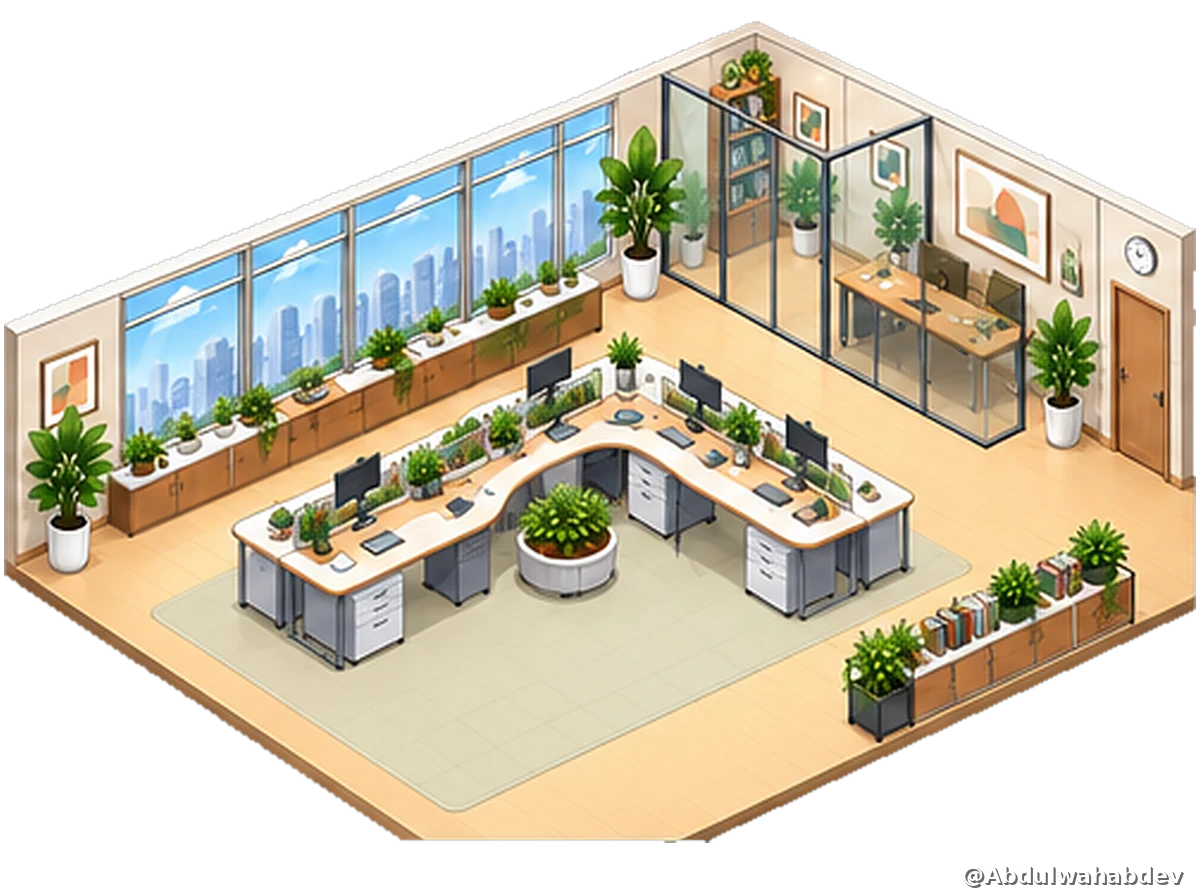
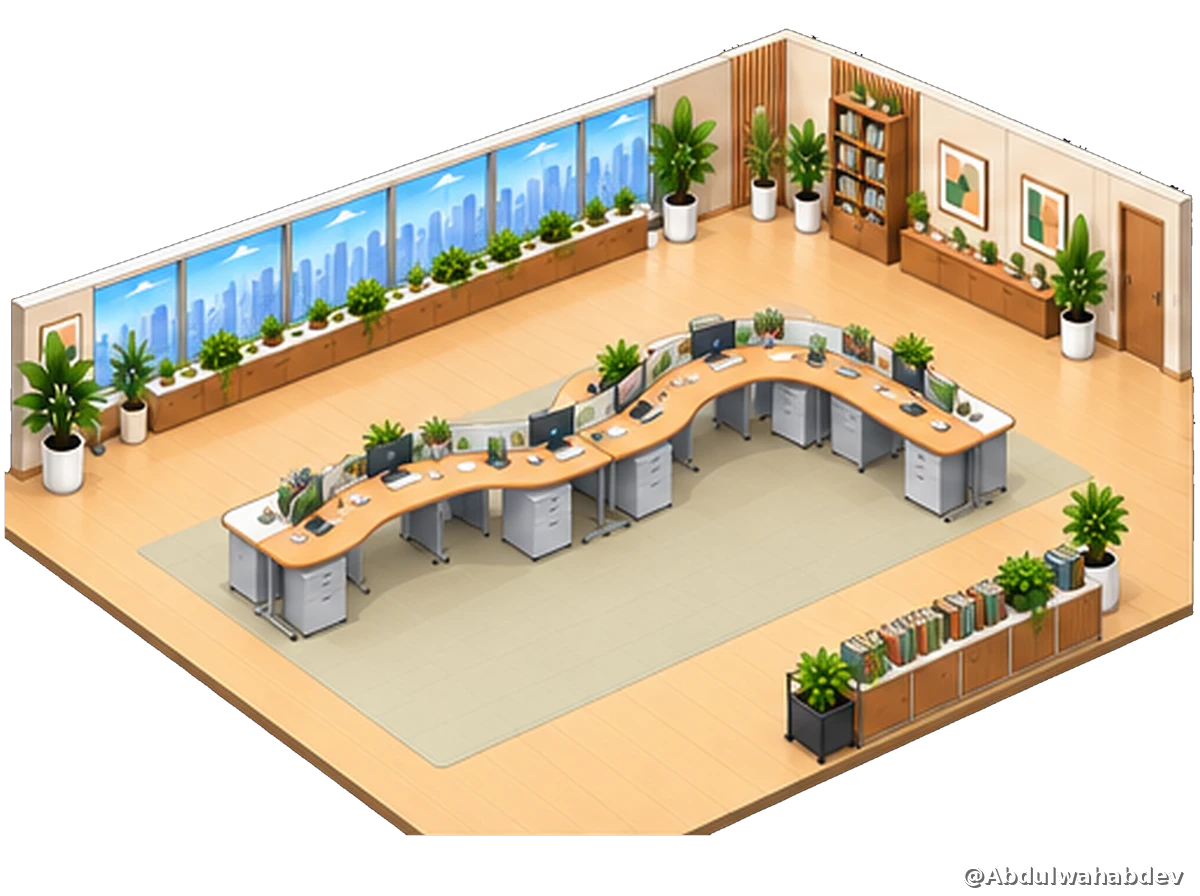
Big single rooms: owner's 9 new room pictures with new standing spots and walk areas
Claude-Session: https://claude.ai/code/session_014dg1NbrcZWs9XemZW5JHMS

diff --git a/office/office.html b/office/office.html
@@ -721,13 +721,13 @@ const ROOM_BG = {boss:"boss", main:"main-open", meet:"meet-10", huddle:"huddle",
 /* main office (the owner's rule): S-shaped benches, and the manager's glass office in the corner */
 const S_MAIN = [{"x": 30, "y": 48, "f": "front-left", "seat": true}, {"x": 38, "y": 44, "f": "front-left", "seat": true}, {"x": 47, "y": 39, "f": "front-left", "seat": true}, {"x": 57, "y": 45, "f": "front-left", "seat": true}, {"x": 64, "y": 52, "f": "front-left", "seat": true}, {"x": 21, "y": 67, "f": "front-left", "seat": true}, {"x": 31, "y": 70, "f": "front-left", "seat": true}, {"x": 72, "y": 52, "f": "front-left", "seat": true}, {"x": 50, "y": 62, "f": "front-left"}, {"x": 52, "y": 72, "f": "front-left"}, {"x": 42, "y": 78, "f": "front-left"}, {"x": 70, "y": 57, "f": "front-left"}, {"x": 88, "y": 54, "f": "front-left"}, {"x": 12, "y": 62, "f": "front-left"}, {"x": 25, "y": 76, "f": "front-left"}, {"x": 62, "y": 66, "f": "front-left"}, {"x": 54, "y": 38, "f": "front-left"}];
 const MGR_SEAT = 7;
-const S_BOSS_OWNER = {"x": 47, "y": 43, "f": "front-left"}, S_BOSS_ASSIST = {"x": 27, "y": 63, "f": "front-left"};
-const S_BOSS_VISIT = [{"x": 40, "y": 74, "f": "front-left"}, {"x": 54, "y": 72, "f": "front-left"}, {"x": 62, "y": 64, "f": "front-left"}, {"x": 32, "y": 80, "f": "front-left"}, {"x": 46, "y": 84, "f": "front-left"}, {"x": 70, "y": 60, "f": "front-left"}];
-const S_GAME = [{"x": 18, "y": 47, "f": "front-left", "seat": true}, {"x": 30, "y": 58, "f": "front-left", "seat": true}, {"x": 54, "y": 42, "f": "front-left", "seat": true}, {"x": 47, "y": 36, "f": "front-left", "seat": true}, {"x": 57, "y": 36, "f": "front-left", "seat": true}, {"x": 32, "y": 70, "f": "front-left"}, {"x": 56, "y": 68, "f": "front-left"}, {"x": 50, "y": 56, "f": "front-left"}, {"x": 83, "y": 53, "f": "front-left"}, {"x": 70, "y": 70, "f": "front-left"}, {"x": 85, "y": 62, "f": "front-left"}, {"x": 62, "y": 80, "f": "front-left"}, {"x": 40, "y": 82, "f": "front-left"}, {"x": 14, "y": 56, "f": "front-left"}, {"x": 66, "y": 40, "f": "front-left"}, {"x": 75, "y": 44, "f": "front-left"}, {"x": 48, "y": 86, "f": "front-left"}];
-const MEET_SETS = {"meet-10": {"seats": [{"x": 22, "y": 64, "f": "front-left", "seat": true}, {"x": 28, "y": 52, "f": "front-left", "seat": true}, {"x": 36, "y": 47, "f": "front-left", "seat": true}, {"x": 44, "y": 42, "f": "front-left", "seat": true}, {"x": 51, "y": 37, "f": "front-left", "seat": true}, {"x": 42, "y": 72, "f": "front-left", "seat": true}, {"x": 50, "y": 67, "f": "front-left", "seat": true}, {"x": 58, "y": 62, "f": "front-left", "seat": true}, {"x": 66, "y": 57, "f": "front-left", "seat": true}, {"x": 72, "y": 46, "f": "front-left", "seat": true}], "stand": [{"x": 14, "y": 66, "f": "front-left"}, {"x": 88, "y": 62, "f": "front-left"}, {"x": 30, "y": 82, "f": "front-left"}, {"x": 70, "y": 76, "f": "front-left"}, {"x": 50, "y": 86, "f": "front-left"}, {"x": 85, "y": 70, "f": "front-left"}]}, "meet-20": {"seats": [{"x": 22, "y": 49, "f": "front-left", "seat": true}, {"x": 29, "y": 46, "f": "front-left", "seat": true}, {"x": 36, "y": 43, "f": "front-left", "seat": true}, {"x": 43, "y": 40, "f": "front-left", "seat": true}, {"x": 50, "y": 37, "f": "front-left", "seat": true}, {"x": 60, "y": 38, "f": "front-left", "seat": true}, {"x": 66, "y": 41, "f": "front-left", "seat": true}, {"x": 72, "y": 44, "f": "front-left", "seat": true}, {"x": 79, "y": 48, "f": "front-left", "seat": true}, {"x": 18, "y": 62, "f": "front-left", "seat": true}, {"x": 24, "y": 68, "f": "front-left", "seat": true}, {"x": 30, "y": 73, "f": "front-left", "seat": true}, {"x": 36, "y": 78, "f": "front-left", "seat": true}, {"x": 42, "y": 83, "f": "front-left", "seat": true}, {"x": 50, "y": 79, "f": "front-left", "seat": true}, {"x": 57, "y": 74, "f": "front-left", "seat": true}, {"x": 64, "y": 69, "f": "front-left", "seat": true}, {"x": 71, "y": 64, "f": "front-left", "seat": true}, {"x": 78, "y": 59, "f": "front-left", "seat": true}], "stand": [{"x": 10, "y": 64, "f": "front-left"}, {"x": 90, "y": 60, "f": "front-left"}, {"x": 56, "y": 88, "f": "front-left"}, {"x": 88, "y": 66, "f": "front-left"}, {"x": 12, "y": 70, "f": "front-left"}]}, "meet-30": {"seats": [{"x": 22.0, "y": 59.0, "f": "front-left", "seat": true}, {"x": 26.0, "y": 60.9, "f": "front-left", "seat": true}, {"x": 30.0, "y": 62.9, "f": "front-left", "seat": true}, {"x": 34.0, "y": 64.9, "f": "front-left", "seat": true}, {"x": 38.0, "y": 66.8, "f": "front-left", "seat": true}, {"x": 42.0, "y": 68.8, "f": "front-left", "seat": true}, {"x": 46.0, "y": 70.7, "f": "front-left", "seat": true}, {"x": 50.0, "y": 72.7, "f": "front-left", "seat": true}, {"x": 54.0, "y": 74.7, "f": "front-left", "seat": true}, {"x": 58.0, "y": 76.6, "f": "front-left", "seat": true}, {"x": 34.0, "y": 50.7, "f": "front-left", "seat": true}, {"x": 37.0, "y": 52.1, "f": "front-left", "seat": true}, {"x": 40.0, "y": 53.6, "f": "front-left", "seat": true}, {"x": 43.0, "y": 55.1, "f": "front-left", "seat": true}, {"x": 46.0, "y": 56.5, "f": "front-left", "seat": true}, {"x": 49.0, "y": 58.0, "f": "front-left", "seat": true}, {"x": 52.0, "y": 59.5, "f": "front-left", "seat": true}, {"x": 55.0, "y": 61.0, "f": "front-left", "seat": true}, {"x": 58.0, "y": 62.4, "f": "front-left", "seat": true}, {"x": 46.0, "y": 43.1, "f": "front-left", "seat": true}, {"x": 49.1, "y": 44.6, "f": "front-left", "seat": true}, {"x": 52.2, "y": 46.1, "f": "front-left", "seat": true}, {"x": 55.4, "y": 47.6, "f": "front-left", "seat": true}, {"x": 58.5, "y": 49.1, "f": "front-left", "seat": true}, {"x": 61.6, "y": 50.6, "f": "front-left", "seat": true}, {"x": 64.8, "y": 52.0, "f": "front-left", "seat": true}, {"x": 67.9, "y": 53.5, "f": "front-left", "seat": true}, {"x": 71.0, "y": 55.0, "f": "front-left", "seat": true}], "stand": [{"x": 10, "y": 64, "f": "front-left"}, {"x": 90, "y": 60, "f": "front-left"}, {"x": 68, "y": 76, "f": "front-left"}, {"x": 32, "y": 80, "f": "front-left"}, {"x": 88, "y": 64, "f": "front-left"}]}};
+const S_BOSS_OWNER = {"x": 60, "y": 48, "f": "front-left"}, S_BOSS_ASSIST = {"x": 33, "y": 57, "f": "front-left"};
+const S_BOSS_VISIT = [{"x": 36, "y": 66, "f": "front-left"}, {"x": 48, "y": 74, "f": "front-left"}, {"x": 62, "y": 80, "f": "front-left"}, {"x": 28, "y": 72, "f": "front-left"}, {"x": 74, "y": 76, "f": "front-left"}, {"x": 80, "y": 68, "f": "front-left"}];
+const S_GAME = [{"x": 18, "y": 55, "f": "front-left"}, {"x": 34, "y": 64, "f": "front-left"}, {"x": 52, "y": 50, "f": "front-left"}, {"x": 34, "y": 40, "f": "front-left"}, {"x": 33, "y": 67, "f": "front-left"}, {"x": 56, "y": 76, "f": "front-left"}, {"x": 55, "y": 62, "f": "front-left"}, {"x": 86, "y": 53, "f": "front-left"}, {"x": 52, "y": 38, "f": "front-left"}, {"x": 60, "y": 40, "f": "front-left"}, {"x": 76, "y": 47, "f": "front-left"}, {"x": 82, "y": 51, "f": "front-left"}, {"x": 50, "y": 56, "f": "front-left"}, {"x": 68, "y": 80, "f": "front-left"}, {"x": 24, "y": 66, "f": "front-left"}, {"x": 46, "y": 88, "f": "front-left"}, {"x": 14, "y": 60, "f": "front-left"}];
+const MEET_SETS = {"meet-10": {"seats": [{"x": 29, "y": 50, "f": "front-left", "seat": true}, {"x": 37, "y": 46, "f": "front-left", "seat": true}, {"x": 45, "y": 42, "f": "front-left", "seat": true}, {"x": 53, "y": 38, "f": "front-left", "seat": true}, {"x": 42, "y": 69, "f": "front-left", "seat": true}, {"x": 50, "y": 65, "f": "front-left", "seat": true}, {"x": 58, "y": 61, "f": "front-left", "seat": true}, {"x": 65, "y": 57.5, "f": "front-left", "seat": true}, {"x": 24, "y": 61, "f": "front-left", "seat": true}, {"x": 70, "y": 47, "f": "front-left", "seat": true}], "stand": [{"x": 14, "y": 62, "f": "front-left"}, {"x": 86, "y": 60, "f": "front-left"}, {"x": 30, "y": 78, "f": "front-left"}, {"x": 68, "y": 72, "f": "front-left"}, {"x": 50, "y": 84, "f": "front-left"}, {"x": 80, "y": 64, "f": "front-left"}]}, "meet-20": {"seats": [{"x": 22, "y": 51, "f": "front-left", "seat": true}, {"x": 28, "y": 48, "f": "front-left", "seat": true}, {"x": 34, "y": 45, "f": "front-left", "seat": true}, {"x": 40, "y": 42, "f": "front-left", "seat": true}, {"x": 46, "y": 38, "f": "front-left", "seat": true}, {"x": 59, "y": 35, "f": "front-left", "seat": true}, {"x": 65, "y": 39, "f": "front-left", "seat": true}, {"x": 71, "y": 42, "f": "front-left", "seat": true}, {"x": 77, "y": 45, "f": "front-left", "seat": true}, {"x": 82, "y": 51, "f": "front-left", "seat": true}, {"x": 15, "y": 60, "f": "front-left", "seat": true}, {"x": 21, "y": 64, "f": "front-left", "seat": true}, {"x": 27, "y": 68, "f": "front-left", "seat": true}, {"x": 33, "y": 72, "f": "front-left", "seat": true}, {"x": 39, "y": 76, "f": "front-left", "seat": true}, {"x": 57, "y": 83, "f": "front-left", "seat": true}, {"x": 63, "y": 80, "f": "front-left", "seat": true}, {"x": 69, "y": 77, "f": "front-left", "seat": true}, {"x": 75, "y": 73, "f": "front-left", "seat": true}, {"x": 81, "y": 69, "f": "front-left", "seat": true}], "stand": [{"x": 10, "y": 64, "f": "front-left"}, {"x": 92, "y": 58, "f": "front-left"}, {"x": 50, "y": 86, "f": "front-left"}, {"x": 88, "y": 62, "f": "front-left"}]}, "meet-30": {"seats": [{"x": 20, "y": 50, "f": "front-left", "seat": true}, {"x": 26, "y": 54, "f": "front-left", "seat": true}, {"x": 32, "y": 58, "f": "front-left", "seat": true}, {"x": 38, "y": 62, "f": "front-left", "seat": true}, {"x": 44, "y": 66, "f": "front-left", "seat": true}, {"x": 18, "y": 59, "f": "front-left", "seat": true}, {"x": 24, "y": 63, "f": "front-left", "seat": true}, {"x": 30, "y": 67, "f": "front-left", "seat": true}, {"x": 36, "y": 71, "f": "front-left", "seat": true}, {"x": 42, "y": 75, "f": "front-left", "seat": true}, {"x": 36, "y": 42, "f": "front-left", "seat": true}, {"x": 42, "y": 45, "f": "front-left", "seat": true}, {"x": 48, "y": 49, "f": "front-left", "seat": true}, {"x": 54, "y": 52, "f": "front-left", "seat": true}, {"x": 60, "y": 56, "f": "front-left", "seat": true}, {"x": 36, "y": 52, "f": "front-left", "seat": true}, {"x": 42, "y": 55, "f": "front-left", "seat": true}, {"x": 48, "y": 59, "f": "front-left", "seat": true}, {"x": 54, "y": 62, "f": "front-left", "seat": true}, {"x": 60, "y": 66, "f": "front-left", "seat": true}, {"x": 52, "y": 35, "f": "front-left", "seat": true}, {"x": 58, "y": 38, "f": "front-left", "seat": true}, {"x": 64, "y": 42, "f": "front-left", "seat": true}, {"x": 70, "y": 45, "f": "front-left", "seat": true}, {"x": 76, "y": 48, "f": "front-left", "seat": true}, {"x": 52, "y": 45, "f": "front-left", "seat": true}, {"x": 58, "y": 48, "f": "front-left", "seat": true}, {"x": 64, "y": 52, "f": "front-left", "seat": true}, {"x": 70, "y": 55, "f": "front-left", "seat": true}, {"x": 76, "y": 58, "f": "front-left", "seat": true}], "stand": [{"x": 78, "y": 62, "f": "front-left"}, {"x": 12, "y": 58, "f": "front-left"}, {"x": 60, "y": 80, "f": "front-left"}, {"x": 50, "y": 86, "f": "front-left"}, {"x": 86, "y": 56, "f": "front-left"}]}};
 const MEET = {get seats(){ return MEET_SETS[meetBg(meetCount)].seats; }, get stand(){ return MEET_SETS[meetBg(meetCount)].stand; }, door:{x:90, y:62}};
 // huddle room: three small tables, four seats each, two standing spots per table
-const HUDDLE = {"tables": [{"seats": [{"x": 31, "y": 50, "f": "front-left", "seat": true}, {"x": 44, "y": 40, "f": "front-left", "seat": true}, {"x": 55, "y": 49, "f": "front-left", "seat": true}, {"x": 41, "y": 58, "f": "front-left", "seat": true}], "stand": [{"x": 27, "y": 58, "f": "front-left"}, {"x": 58, "y": 44, "f": "front-left"}]}, {"seats": [{"x": 60, "y": 58, "f": "front-left", "seat": true}, {"x": 73, "y": 48, "f": "front-left", "seat": true}, {"x": 85, "y": 58, "f": "front-left", "seat": true}, {"x": 73, "y": 73, "f": "front-left", "seat": true}], "stand": [{"x": 88, "y": 64, "f": "front-left"}, {"x": 70, "y": 78, "f": "front-left"}]}, {"seats": [{"x": 27, "y": 72, "f": "front-left", "seat": true}, {"x": 52, "y": 64, "f": "front-left", "seat": true}, {"x": 52, "y": 80, "f": "front-left", "seat": true}, {"x": 39, "y": 84, "f": "front-left", "seat": true}], "stand": [{"x": 24, "y": 80, "f": "front-left"}, {"x": 58, "y": 82, "f": "front-left"}]}]};
+const HUDDLE = {"tables": [{"seats": [{"x": 36, "y": 47, "f": "front-left", "seat": true}, {"x": 48, "y": 39, "f": "front-left", "seat": true}, {"x": 56, "y": 48, "f": "front-left", "seat": true}, {"x": 45, "y": 58, "f": "front-left", "seat": true}], "stand": [{"x": 58, "y": 42, "f": "front-left"}, {"x": 32, "y": 48, "f": "front-left"}]}, {"seats": [{"x": 15, "y": 58, "f": "front-left", "seat": true}, {"x": 26, "y": 50, "f": "front-left", "seat": true}, {"x": 36, "y": 60, "f": "front-left", "seat": true}, {"x": 25, "y": 72, "f": "front-left", "seat": true}], "stand": [{"x": 14, "y": 66, "f": "front-left"}, {"x": 36, "y": 68, "f": "front-left"}]}, {"seats": [{"x": 57, "y": 62, "f": "front-left", "seat": true}, {"x": 68, "y": 53, "f": "front-left", "seat": true}, {"x": 79, "y": 62, "f": "front-left", "seat": true}, {"x": 67, "y": 77, "f": "front-left", "seat": true}], "stand": [{"x": 82, "y": 70, "f": "front-left"}, {"x": 56, "y": 72, "f": "front-left"}]}]};
 
 /* characters (the owner's rule): the owner's own drawings, cut from the reference sheet, each with a small credit tag.
    -l faces screen left, -r is its mirror. An agent stores the one picked in its page as look.char. */
@@ -938,7 +938,7 @@ function renderDepts(){
 /* idle room (the owner's rule): an agent with no activity for more than 3 days sits here on a chair and does not move,
    with "Idle since <date>" over its head. Any new message, task update or meeting brings it back. */
 const IDLE_DAYS = 3, NEVER_IDLE = new Set(["coordinator", "office-manager", "agent-designer"]);
-const IDLE_SEATS = [{"x": 36, "y": 48, "f": "front-left", "seat": true}, {"x": 46, "y": 40, "f": "front-left", "seat": true}, {"x": 62, "y": 46, "f": "front-left", "seat": true}, {"x": 56, "y": 60, "f": "front-left", "seat": true}, {"x": 42, "y": 62, "f": "front-left", "seat": true}, {"x": 30, "y": 56, "f": "front-left", "seat": true}, {"x": 70, "y": 55, "f": "front-left", "seat": true}, {"x": 78, "y": 60, "f": "front-left", "seat": true}, {"x": 24, "y": 64, "f": "front-left", "seat": true}, {"x": 50, "y": 70, "f": "front-left"}, {"x": 64, "y": 66, "f": "front-left"}, {"x": 36, "y": 72, "f": "front-left"}, {"x": 86, "y": 63, "f": "front-left"}, {"x": 18, "y": 58, "f": "front-left"}, {"x": 56, "y": 80, "f": "front-left"}];
+const IDLE_SEATS = [{"x": 38, "y": 60, "f": "front-left", "seat": true}, {"x": 44, "y": 51, "f": "front-left", "seat": true}, {"x": 55, "y": 50, "f": "front-left", "seat": true}, {"x": 64, "y": 57, "f": "front-left", "seat": true}, {"x": 60, "y": 68, "f": "front-left", "seat": true}, {"x": 48, "y": 70, "f": "front-left", "seat": true}, {"x": 36, "y": 66, "f": "front-left", "seat": true}, {"x": 68, "y": 62, "f": "front-left", "seat": true}, {"x": 25, "y": 55, "f": "front-left", "seat": true}, {"x": 30, "y": 46, "f": "front-left", "seat": true}, {"x": 74, "y": 52, "f": "front-left", "seat": true}, {"x": 80, "y": 60, "f": "front-left", "seat": true}, {"x": 20, "y": 64, "f": "front-left", "seat": true}, {"x": 70, "y": 72, "f": "front-left", "seat": true}, {"x": 30, "y": 74, "f": "front-left", "seat": true}, {"x": 50, "y": 80, "f": "front-left", "seat": true}, {"x": 78, "y": 66, "f": "front-left", "seat": true}, {"x": 60, "y": 82, "f": "front-left", "seat": true}];
 const lastActive = a => {
   let t = 0; const bump = v => { const n = Date.parse(v || ""); if (n > t) t = n; };
   bump(a.last_active_at); bump(a.updated_at); bump(a.profile_updated_at);
@@ -954,13 +954,13 @@ const DOOR = MEET.door;
    polygons in % of the room; a path goes around them on a 100 x 100 grid, then the last step goes into the seat */
 const NAV = {"main-open":{"floor":[[1,60],[52,22],[99,52],[57,85],[31,85]],"block":[[[18,58],[45,42],[49,42],[62,52],[62,58],[57,58],[51,50],[46,53],[45,56],[45,65],[39,65],[36,61],[26,69],[18,63]],[[7,50],[44,30],[44,36],[9,56]],[[1,49],[7,49],[7,60],[1,60]],[[51,30],[56,26],[62,30],[62,36],[57,37],[51,33]],[[55,21],[67,25],[67,31],[55,27]],[[66,40],[73,36],[82,43],[82,49],[77,51],[66,45]],[[73,33],[94,44],[94,51],[73,40]],[[58,73],[80,61],[81,66],[61,80],[58,79]]]},
   "main-b":{"floor":[[1,64],[52,31],[99,53],[52,90],[37,90]],"block":[[[19,57],[42,44],[56,40],[72,52],[72,62],[63,66],[55,58],[48,56],[40,60],[29,74],[19,70]],[[55,20],[70,13],[88,30],[88,50],[83,49],[56,33]],[[70,70],[92,60],[95,63],[95,68],[74,82],[70,78]],[[8,53],[50,32],[50,38],[10,59]],[[2,56],[9,56],[9,63],[2,63]]]},
-  "boss":{"floor":[[1,58],[50,24],[99,63],[52,92],[45,92]],"block":[[[33,54],[54,42],[67,47],[67,55],[45,68],[34,62]],[[55,30],[73,38],[73,43],[55,35]],[[72,36],[81,36],[81,48],[72,48]],[[82,48],[94,48],[94,60],[82,60]],[[1,45],[19,56],[19,70],[1,60]],[[18,50],[47,35],[47,40],[20,55]]]},
-  "huddle":{"floor":[[1,60],[54,30],[99,60],[52,90]],"block":[[[33,47],[44,41],[52,44],[52,50],[41,56],[33,52]],[[62,56],[72,50],[82,57],[82,68],[73,72],[62,64]],[[29,66],[40,59],[50,64],[50,78],[40,82],[29,75]],[[8,52],[47,32],[47,37],[10,58]],[[64,40],[66,36],[87,46],[87,55],[80,56]],[[53,30],[65,30],[65,43],[53,43]]]},
-  "meet-10":{"floor":[[1,57],[50,30],[99,57],[56,90],[38,90]],"block":[[[25,60],[56,40],[68,47],[68,52],[38,72],[26,66]],[[8,52],[42,35],[42,40],[10,58]],[[61,38],[63,35],[86,46],[86,56],[80,57]],[[47,30],[58,30],[58,36],[47,36]]]},
-  "meet-20":{"floor":[[1,57],[52,27],[99,57],[56,90],[38,90]],"block":[[[19,55],[54,38],[79,52],[79,58],[44,80],[19,62]],[[8,52],[45,34],[45,36],[10,57]],[[65,30],[86,40],[86,46],[66,37]],[[54,28],[65,28],[65,35],[54,35]]]},
-  "meet-30":{"floor":[[1,57],[52,27],[99,56],[55,90],[40,90]],"block":[[[19,49],[24,47],[60,66],[60,76],[55,78],[19,56]],[[31,41],[36,39],[72,58],[72,68],[67,70],[31,48]],[[43,34],[48,32],[83,50],[83,58],[78,60],[43,41]],[[6,52],[49,30],[49,35],[8,57]],[[73,34],[78,34],[78,45],[73,45]],[[81,37],[91,43],[91,48],[81,43]],[[56,28],[67,28],[67,34],[56,34]]]},
-  "game":{"floor":[[1,52],[52,27],[99,55],[55,90],[44,90]],"block":[[[21,43],[42,34],[51,38],[51,46],[31,55],[22,52]],[[35,64],[46,57],[53,61],[53,73],[44,79],[36,74]],[[53,53],[63,43],[80,49],[80,56],[66,67],[54,60]],[[44,26],[61,26],[61,34],[44,34]],[[61,32],[64,28],[90,40],[90,48],[84,49]],[[8,50],[40,33],[40,38],[10,55]],[[89,46],[97,46],[97,55],[89,55]]]},
-  "idle":{"floor":[[1,56],[50,28],[99,58],[55,92],[42,92]],"block":[[[40,50],[50,42],[59,45],[59,54],[50,58],[40,55]],[[49,26],[57,26],[57,34],[49,34]],[[64,36],[66,32],[84,42],[84,51],[78,51]],[[8,50],[44,32],[44,37],[10,56]],[[2,50],[9,50],[9,58],[2,58]],[[86,48],[94,48],[94,57],[86,57]]]}};
+  "boss":{"floor":[[1,54],[55,28],[99,64],[55,92],[37,92]],"block":[[[38,50],[49,44],[70,59],[70,70],[59,75],[38,59]],[[7,43],[39,29],[39,34],[9,50]],[[42,27],[59,27],[59,32],[42,32]],[[59,29],[78,37],[78,45],[59,35]],[[79,36],[88,40],[88,51],[79,48]],[[86,48],[93,48],[93,57],[86,57]],[[1,48],[8,48],[8,57],[1,57]]]},
+  "huddle":{"floor":[[1,52],[54,24],[99,61],[55,90],[37,90]],"block":[[[38,45],[45,41],[53,44],[53,52],[46,55],[38,51]],[[17,57],[24,53],[33,57],[33,66],[26,69],[17,64]],[[59,60],[67,56],[76,60],[76,70],[68,74],[59,68]],[[8,47],[47,26],[47,31],[10,53]],[[60,32],[72,32],[72,41],[60,41]],[[72,37],[88,43],[88,48],[74,44]],[[86,50],[96,50],[96,62],[86,62]],[[48,27],[60,27],[60,33],[48,33]],[[1,45],[8,45],[8,55],[1,55]]]},
+  "meet-10":{"floor":[[1,54],[50,22],[99,57],[55,90],[37,90]],"block":[[[28,56],[58,40],[66,44],[66,52],[36,67],[28,63]],[[8,47],[44,29],[44,34],[10,53]],[[50,30],[62,30],[62,37],[50,37]],[[64,35],[85,44],[85,51],[66,42]],[[82,50],[92,50],[92,57],[82,57]],[[1,47],[8,47],[8,57],[1,57]]]},
+  "meet-20":{"floor":[[1,58],[52,28],[99,56],[60,90],[30,90]],"block":[[[19,54],[53,36],[55,40],[25,58]],[[53,35],[85,54],[84,59],[52,40]],[[19,54],[26,54],[46,72],[45,78],[20,58]],[[51,73],[84,56],[85,60],[55,77]],[[39,52],[59,48],[59,58],[44,65],[39,63]],[[7,50],[46,27],[46,32],[10,55]],[[53,17],[63,17],[63,30],[53,30]],[[68,30],[87,40],[87,47],[68,37]],[[85,40],[93,40],[93,54],[85,54]],[[2,46],[8,46],[8,56],[2,56]],[[45,22],[52,22],[52,29],[45,29]],[[63,27],[68,27],[68,35],[63,35]]]},
+  "meet-30":{"floor":[[1,56],[54,26],[99,52],[55,92],[40,92]],"block":[[[14,51],[20,49],[50,70],[50,74],[44,76],[14,55]],[[30,44],[36,41],[67,60],[67,63],[61,66],[30,47]],[[46,36],[52,34],[82,51],[82,54],[76,57],[46,39]],[[8,46],[44,26],[44,31],[9,51]],[[44,22],[58,22],[58,28],[44,28]],[[59,26],[68,26],[68,34],[59,34]],[[67,28],[72,28],[72,35],[67,35]],[[73,32],[80,32],[80,44],[73,44]],[[72,32],[90,40],[90,45],[72,37]],[[87,34],[97,34],[97,52],[87,52]],[[2,40],[8,40],[8,52],[2,52]]]},
+  "game":{"floor":[[1,52],[53,25],[99,52],[55,92],[42,92]],"block":[[[21,48],[40,37],[49,43],[49,48],[30,61],[22,54]],[[35,69],[43,63],[53,69],[53,78],[46,84],[35,75]],[[58,59],[71,49],[84,55],[84,60],[69,72],[58,63]],[[50,28],[65,28],[65,35],[50,35]],[[8,48],[40,28],[40,33],[9,53]],[[40,22],[48,22],[48,28],[40,28]],[[65,30],[71,30],[71,38],[65,38]],[[71,33],[91,43],[91,49],[71,38]],[[89,44],[97,44],[97,56],[89,56]],[[2,42],[8,42],[8,53],[2,53]]]},
+  "idle":{"floor":[[1,56],[52,27],[99,64],[55,92],[40,92]],"block":[[[42,55],[52,52],[62,53],[62,62],[52,67],[42,62]],[[7,47],[43,28],[43,33],[8,52]],[[42,18],[52,18],[52,28],[42,28]],[[54,26],[63,30],[63,35],[54,31]],[[61,30],[67,30],[67,38],[61,38]],[[66,33],[85,43],[85,50],[66,39]],[[84,45],[90,45],[90,57],[84,57]],[[2,46],[8,46],[8,57],[2,57]]]}};
 const bgOfRoom = room => { const t = typeOf(room), b = t === "meet" ? meetBg(meetCount) : ROOM_BG[t]; return Array.isArray(b) ? b[0] : b; };
 const inPoly = (x, y, P) => { let c = false; for (let i = 0, j = P.length - 1; i < P.length; j = i++) { const [xi, yi] = P[i], [xj, yj] = P[j];
   if ((yi > y) !== (yj > y) && x < (xj - xi) * (y - yi) / (yj - yi) + xi) c = !c; } return c; };
